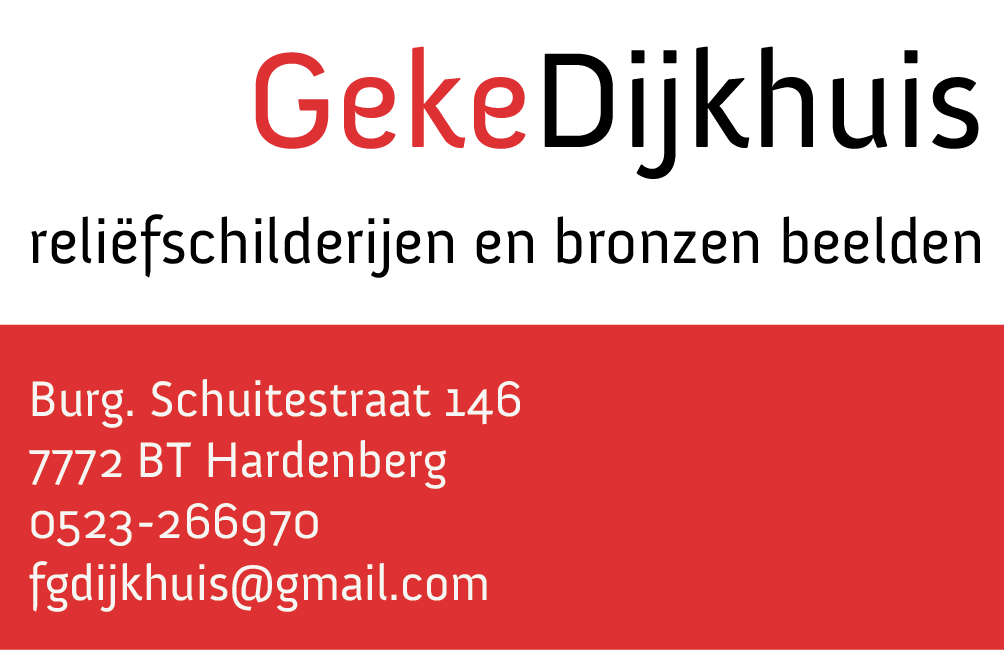
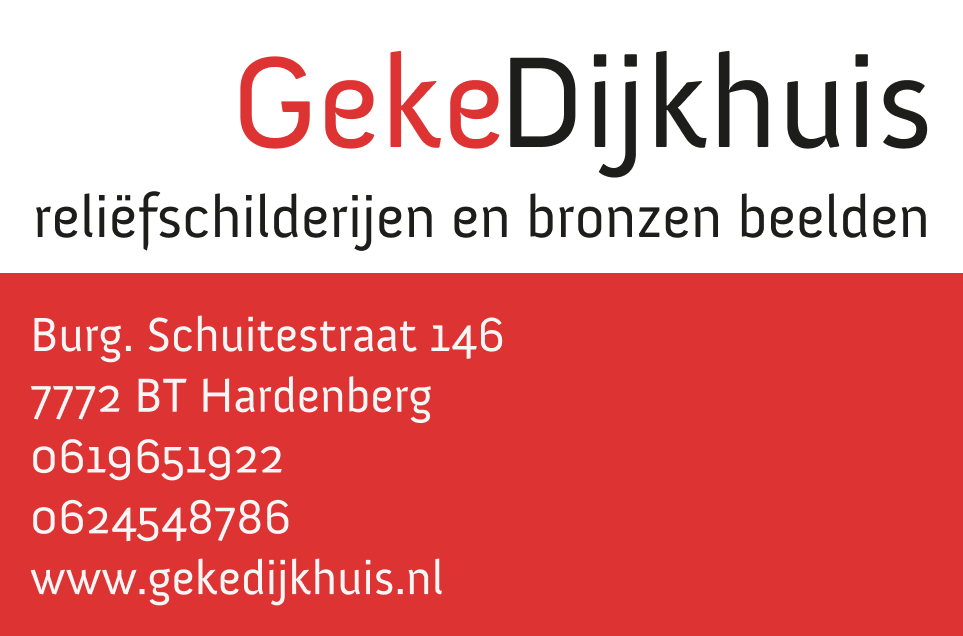
feat: Added new painting and new contact-card

Changed region(s): [[0.0, 0.2987, 1.0, 0.956], [0.2492, 0.0597, 0.9969, 0.2987], [0.0, 0.9858, 1.0, 1.0]]

diff --git a/schilderijen.html b/schilderijen.html
@@ -249,6 +249,12 @@
                     </div>
                     <p>Puur natuur 80&times;120</p>
                 </a>
+                <a class="card" onclick="fullscreenCard(this);">
+                    <div class="image">
+                        <img src="./img/schilderijen/eendracht-100x100.jpg" alt="Eendracht">
+                    </div>
+                    <p>Eendracht 100&times;100</p>
+                </a>
             </div>
         </section>
         <section id="contact">

diff --git a/script/script.js b/script/script.js
@@ -10,6 +10,7 @@ var schilderijen = [
     "met-elkaar-500x400.jpg",
     "muziek-500x400.jpg",
     "nederlander-500x400.jpg",
+    "eendracht-100x100.jpg"
 ];
 var beelden = [
     "1-en-1-zijn-één-scaled.jpg",
